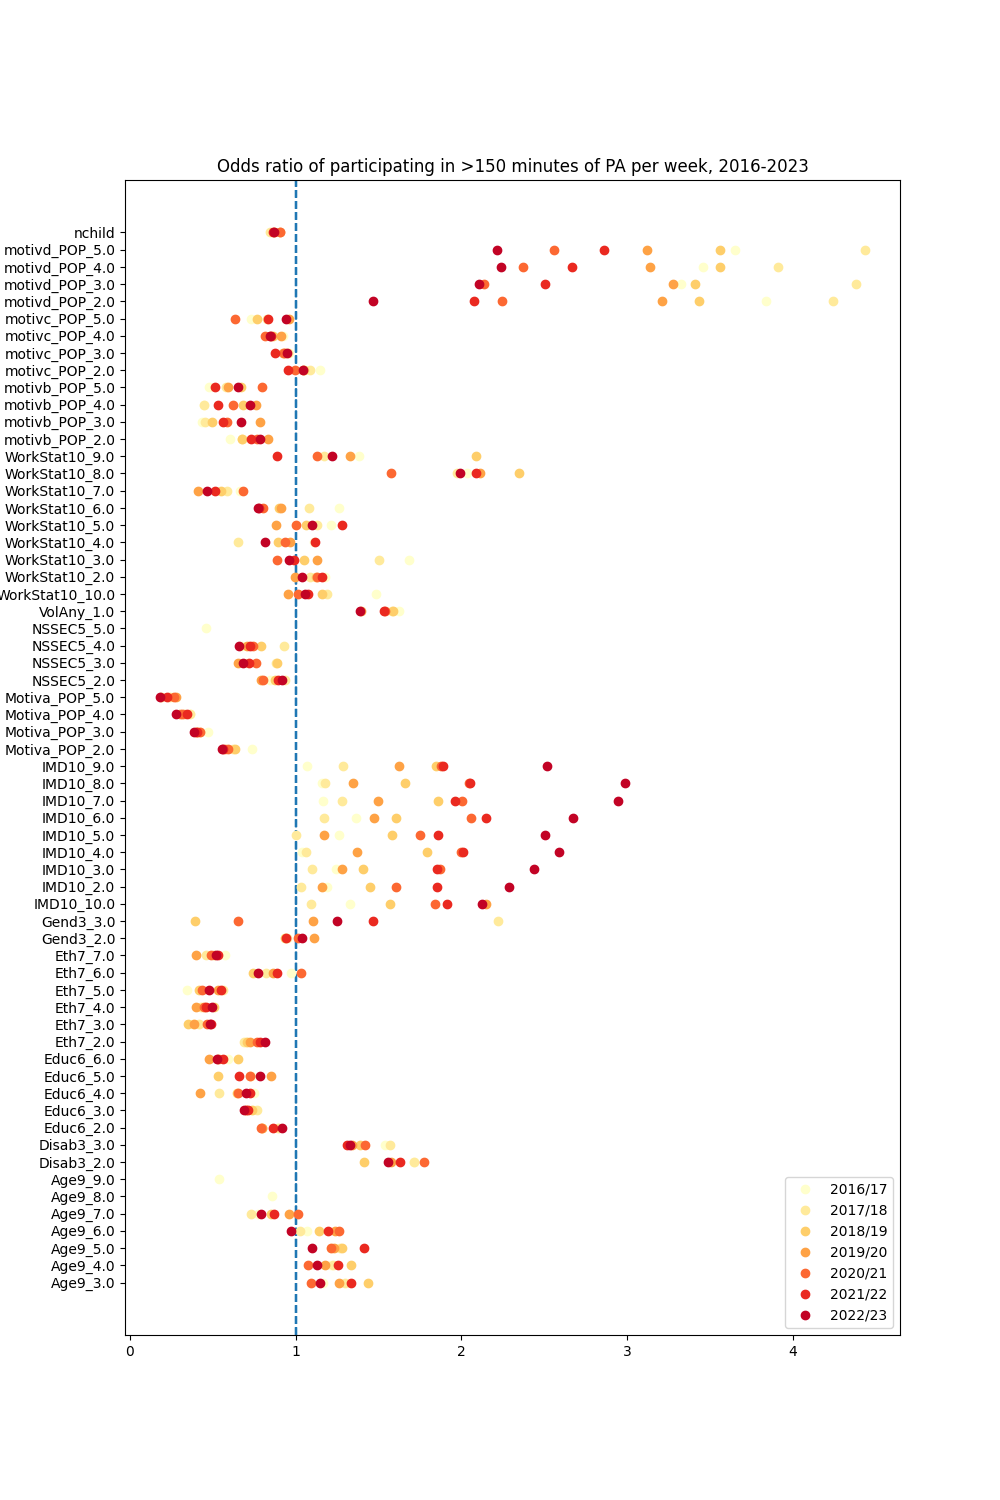
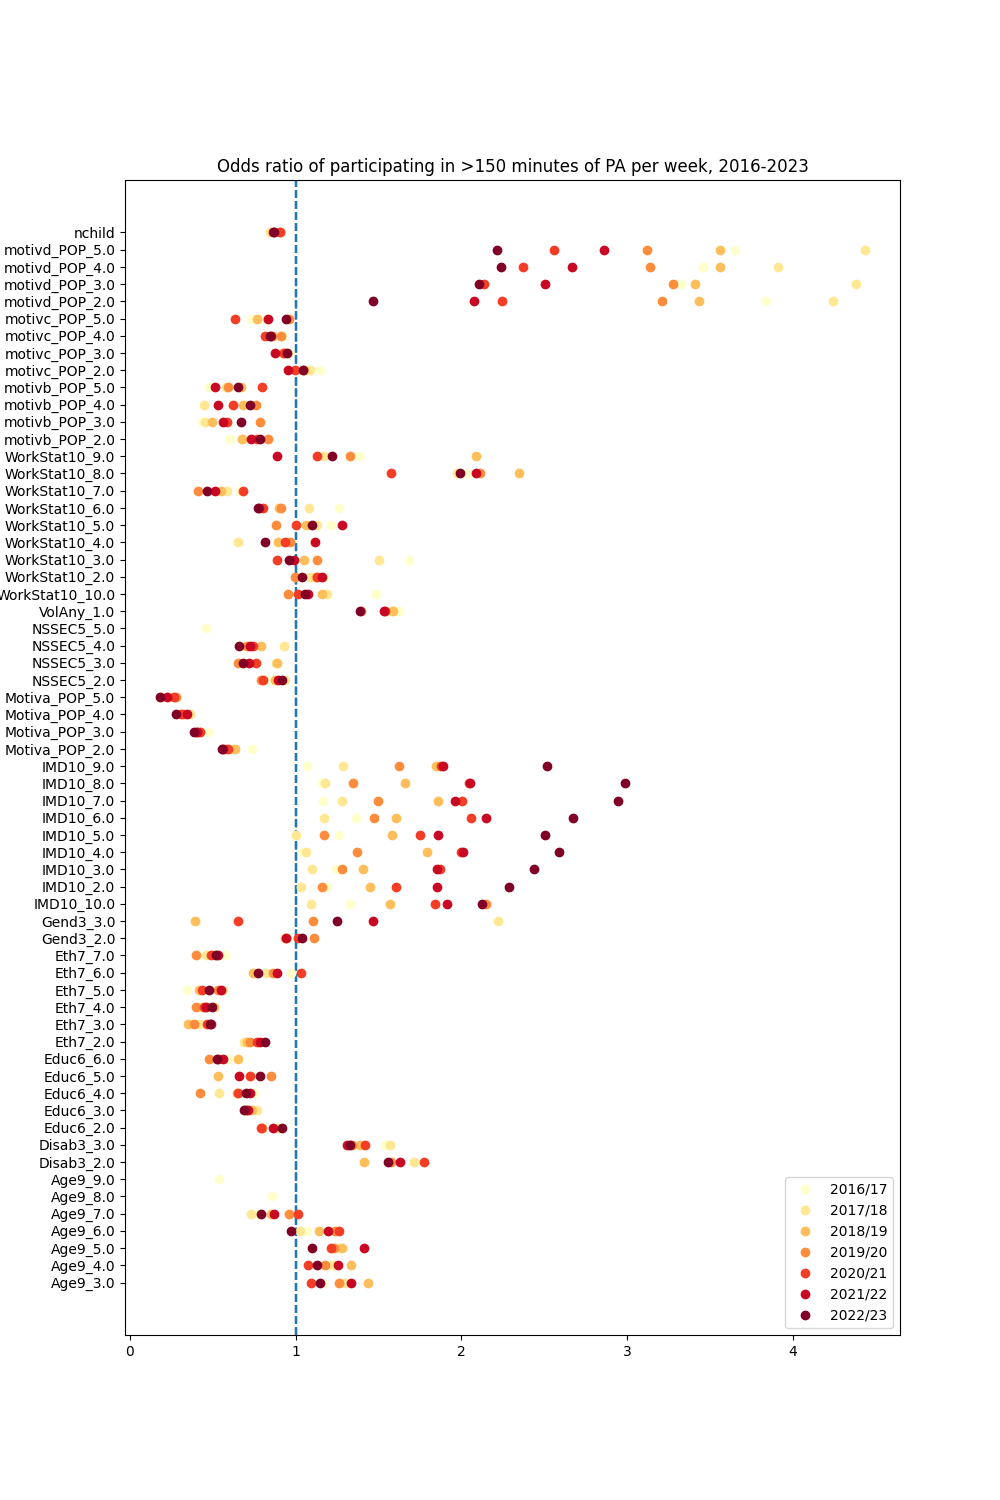
updated coef plot to dynamically generate colour intervals for years

diff --git a/src/stream_2/create_coef_plot.py b/src/stream_2/create_coef_plot.py
@@ -16,7 +16,8 @@ pivoted = df.pivot(
     values=['odds_ratios', 'pvalues', 'confidence_lower', 'confidence_upper', 'std_error']
 )
 fig, ax = plt.subplots(figsize=(10,15))
-ax.set_prop_cycle(color = plt.cm.YlOrRd(np.linspace(0,1,8)))
+num_years = len(pivoted.columns.levels[1])
+ax.set_prop_cycle(color = plt.cm.YlOrRd(np.linspace(0,1,num_years)))
 for idx, year in enumerate(sorted(pivoted.columns.levels[1])):
     ax.errorbar(x=pivoted['odds_ratios'][year].values, y =pivoted.index, marker='o', linestyle='None', label=year)
     ax.legend()